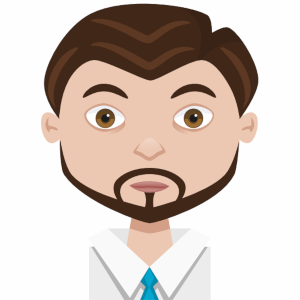
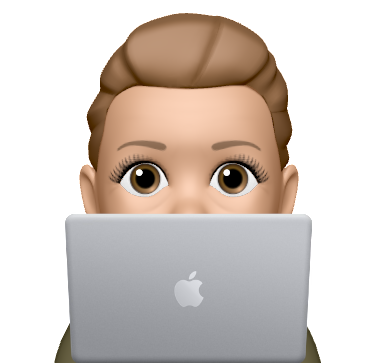
fiddling with author box and layout

diff --git a/_layouts/post.html b/_layouts/post.html
@@ -10,34 +10,20 @@ post_class: post-template
 <div class="container">
     <div class="row">
 
-        <!-- Post Share -->
         <div class="col-md-2 pl-0">
+            <!-- Post Share -->
             {% include share.html %}
-        </div>
+        </div> 
 
         <!-- Post -->
         {% assign author = site.authors[page.author] %}
 
         <div class="col-md-9 flex-first flex-md-unordered">
             <div class="mainheading">
-
-                <!-- Author Box -->
-                {% if page.author %}
-                <div class="row post-top-meta">
-                    <div class="col-xs-12 col-md-3 col-lg-2 text-center text-md-left mb-4 mb-md-0">
-                        {% if author.avatar %}
-                        <img class="author-thumb" src="{{site.baseurl}}/{{ author.avatar }}" alt="{{ author.display_name }}">
-                        {% else %}
-                        <img class="author-thumb" src="https://www.gravatar.com/avatar/{{ author.gravatar }}?s=250&d=mm&r=x" alt="{{ author.display_name }}">
-                        {% endif %}
-                    </div>
-                    <div class="col-xs-12 col-md-9 col-lg-10 text-center text-md-left">
-                        <a target="_blank" class="link-dark" href="{{ author.web }}">{{ author.display_name }}</a><a target="_blank" href="{{ author.twitter }}" class="btn follow">Follow</a>
-                        <span class="author-description">{{ author.description }}</span>
-                    </div>
-                </div>
-                {% endif %}
-
+            <!-- Author Box -->
+            {% if page.author %}        
+                {% include author.html %}
+            {% endif %}
                 <!-- Post Title -->
                 <h1 class="posttitle">{{ page.title }}</h1>
 

diff --git a/_includes/featuredbox.html b/_includes/featuredbox.html
@@ -46,7 +46,7 @@
                                 {% endif %}
                                 <span class="post-date">{{ post.date | date_to_string }}</span>
                                 </span>
-                                <span class="post-read-more"><a href="{{ site.baseurl }}/{{ post.url }}" title="Read Story"><svg class="svgIcon-use" width="25" height="25" viewbox="0 0 25 25"><path d="M19 6c0-1.1-.9-2-2-2H8c-1.1 0-2 .9-2 2v14.66h.012c.01.103.045.204.12.285a.5.5 0 0 0 .706.03L12.5 16.85l5.662 4.126a.508.508 0 0 0 .708-.03.5.5 0 0 0 .118-.285H19V6zm-6.838 9.97L7 19.636V6c0-.55.45-1 1-1h9c.55 0 1 .45 1 1v13.637l-5.162-3.668a.49.49 0 0 0-.676 0z" fill-rule="evenodd"></path></svg></a></span>
+                                <!-- <span class="post-read-more"><a href="{{ site.baseurl }}/{{ post.url }}" title="Read Story"><svg class="svgIcon-use" width="25" height="25" viewbox="0 0 25 25"><path d="M19 6c0-1.1-.9-2-2-2H8c-1.1 0-2 .9-2 2v14.66h.012c.01.103.045.204.12.285a.5.5 0 0 0 .706.03L12.5 16.85l5.662 4.126a.508.508 0 0 0 .708-.03.5.5 0 0 0 .118-.285H19V6zm-6.838 9.97L7 19.636V6c0-.55.45-1 1-1h9c.55 0 1 .45 1 1v13.637l-5.162-3.668a.49.49 0 0 0-.676 0z" fill-rule="evenodd"></path></svg></a></span> -->
                                 <div class="clearfix"></div>
                             </div>
                         </div>

diff --git a/_includes/postbox.html b/_includes/postbox.html
@@ -42,7 +42,7 @@
                 {% endif %}
                 <span class="post-date">{{ post.date | date_to_string }}</span>
                 </span>
-                <span class="post-read-more"><a href="{{ site.baseurl }}{{ post.url }}" title="Read Story"><svg class="svgIcon-use" width="25" height="25" viewbox="0 0 25 25"><path d="M19 6c0-1.1-.9-2-2-2H8c-1.1 0-2 .9-2 2v14.66h.012c.01.103.045.204.12.285a.5.5 0 0 0 .706.03L12.5 16.85l5.662 4.126a.508.508 0 0 0 .708-.03.5.5 0 0 0 .118-.285H19V6zm-6.838 9.97L7 19.636V6c0-.55.45-1 1-1h9c.55 0 1 .45 1 1v13.637l-5.162-3.668a.49.49 0 0 0-.676 0z" fill-rule="evenodd"></path></svg></a></span>
+                <!-- <span class="post-read-more"><a href="{{ site.baseurl }}{{ post.url }}" title="Read Story"><svg class="svgIcon-use" width="25" height="25" viewbox="0 0 25 25"><path d="M19 6c0-1.1-.9-2-2-2H8c-1.1 0-2 .9-2 2v14.66h.012c.01.103.045.204.12.285a.5.5 0 0 0 .706.03L12.5 16.85l5.662 4.126a.508.508 0 0 0 .708-.03.5.5 0 0 0 .118-.285H19V6zm-6.838 9.97L7 19.636V6c0-.55.45-1 1-1h9c.55 0 1 .45 1 1v13.637l-5.162-3.668a.49.49 0 0 0-.676 0z" fill-rule="evenodd"></path></svg></a></span> -->
                 <div class="clearfix"></div>
             </div>
         </div>

diff --git a/assets/css/screen.css b/assets/css/screen.css
@@ -177,9 +177,9 @@ section.recent-posts {
 }
 
 .author-thumb {
-    width: 40px;
-    height: 40px;
-    margin-right: 13px;
+    width: 50px;
+    height: 50px;
+    margin-right: 10px;
     border-radius: 100%;
 }
 
@@ -188,8 +188,8 @@ section.recent-posts {
 }
 
 .post-top-meta .author-thumb {
-    width: 72px;
-    height: 72px;
+    width: 90px;
+    height: 90px;
 }
 
 .post-top-meta.authorpage .author-thumb {

diff --git a/_includes/author.html b/_includes/author.html
@@ -1,0 +1,7 @@
+   <!-- Author Box -->
+   <div class="row post-top-meta">
+       <div>
+           <img class="author-thumb" src="{{site.baseurl}}/{{ author.avatar }}" alt="{{ author.display_name }}">
+           <span class="author-description">{{ author.description }}</span>
+       </div>
+   </div>

diff --git a/_pages/about.md b/_pages/about.md
@@ -1,8 +1,17 @@
 ---
 layout: page
-title: Mediumish Template for Jekyll
+title: Who are you?
 permalink: /about
-comments: true
+comments: false
 ---
 
-This page tells you a little bit about me.
+I think, you ought to tell me who you are first...
+
+**I am**  
+I am a daughter    
+I am a sister  
+I am a friend  
+I am a lover  
+I am a worker  
+I am a mother  
+I am a women  

diff --git a/_posts/2023-06-10-summer.md b/_posts/2023-06-10-summer.md
@@ -1,0 +1,13 @@
+---
+layout: post
+title:  "Summer"
+author: sam
+categories: [ Nature, June ]
+image: assets/images/IMG_3427.jpg
+featured: false
+hidden: false
+comments: false
+---
+
+Today we walked, Sid and I  
+Blue was the colour of the cloudless sky  
